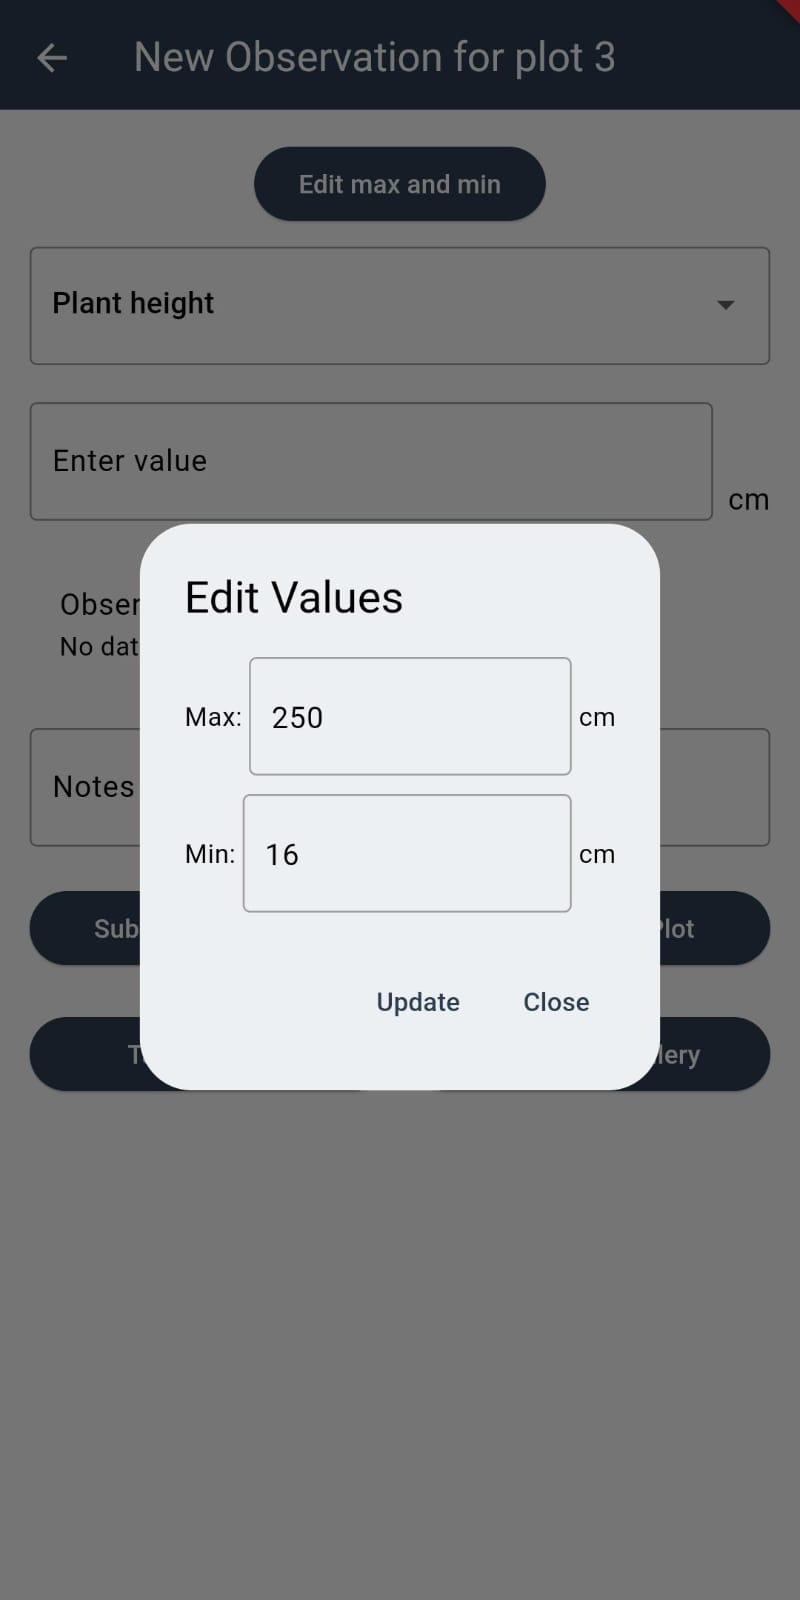
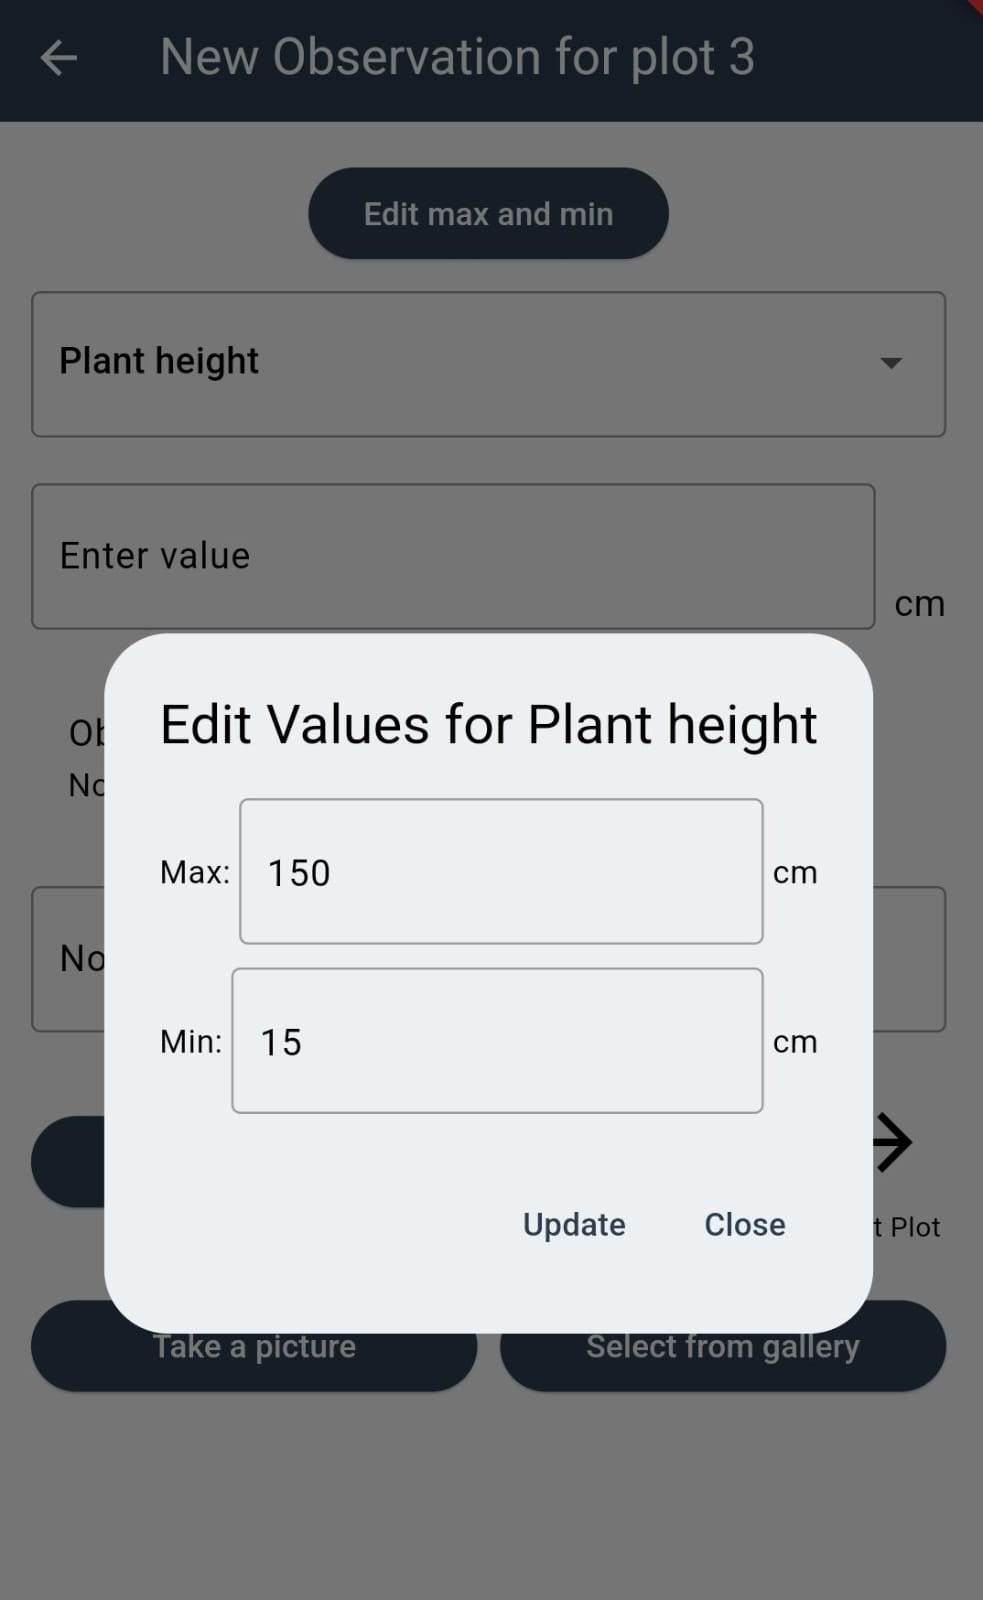
Update app screenshot for limits and validation of observations

diff --git a/docs/mobile_app/index.md b/docs/mobile_app/index.md
@@ -37,7 +37,7 @@ There is only one validation in place at the moment which is for the plant heigh
 
 <div align="center">
     <img src="screenshots/4_edit_limits.jpeg" width="250px"/>
-    <img src="screenshots/4_new_observation_form.jpeg" width="250px"/>
+    <img src="screenshots/4_validation_error.jpeg" width="350px"/>
 </div>
 
 Once an observation is submitted, the form will be cleared and the user can enter another observation or move to the next plot by clicking on the `Move to Next Plot` button.

diff --git a/docs/installation/getting_started.md b/docs/installation/getting_started.md
@@ -1,6 +1,6 @@
 
 
-Download dummy database: [https://grassroots.tools/documentation/dummy_test.zip](https://grassroots.tools/documentation/dummy_test.zip)
+Download dummy database: [https://grassroots.tools/newbeta/documentation/dummy_test.zip](https://grassroots.tools/newbeta/documentation/dummy_test.zip)
 
 
 
